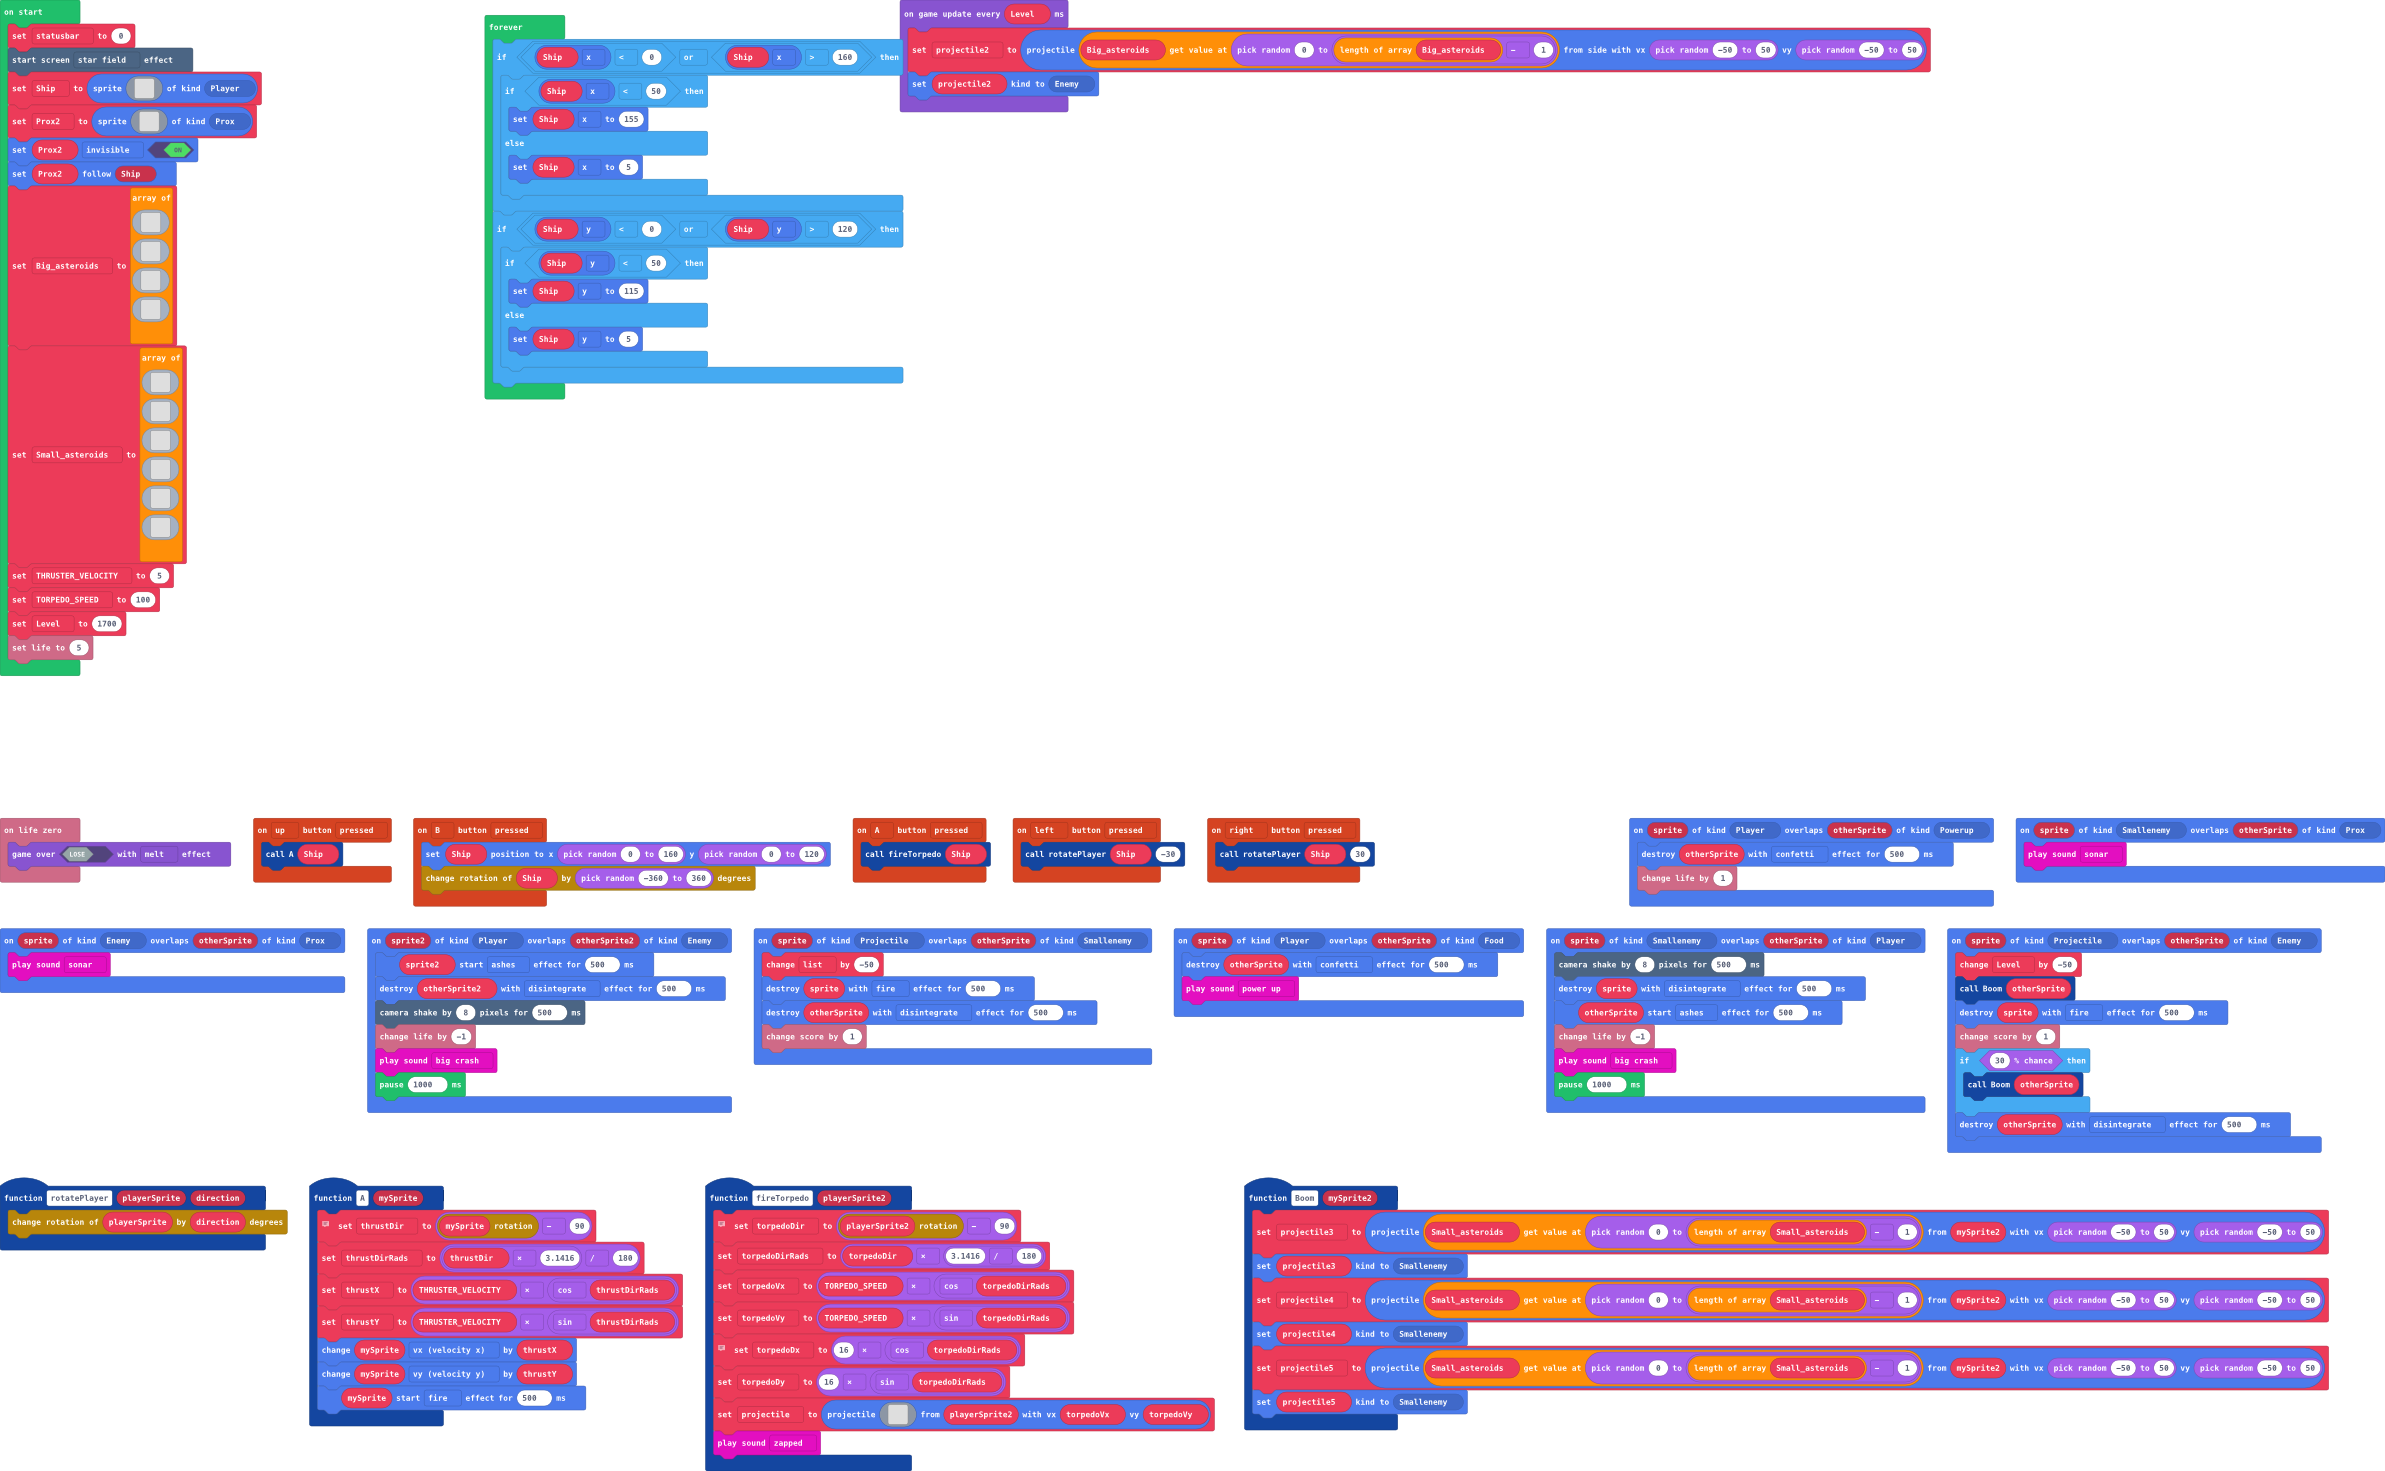
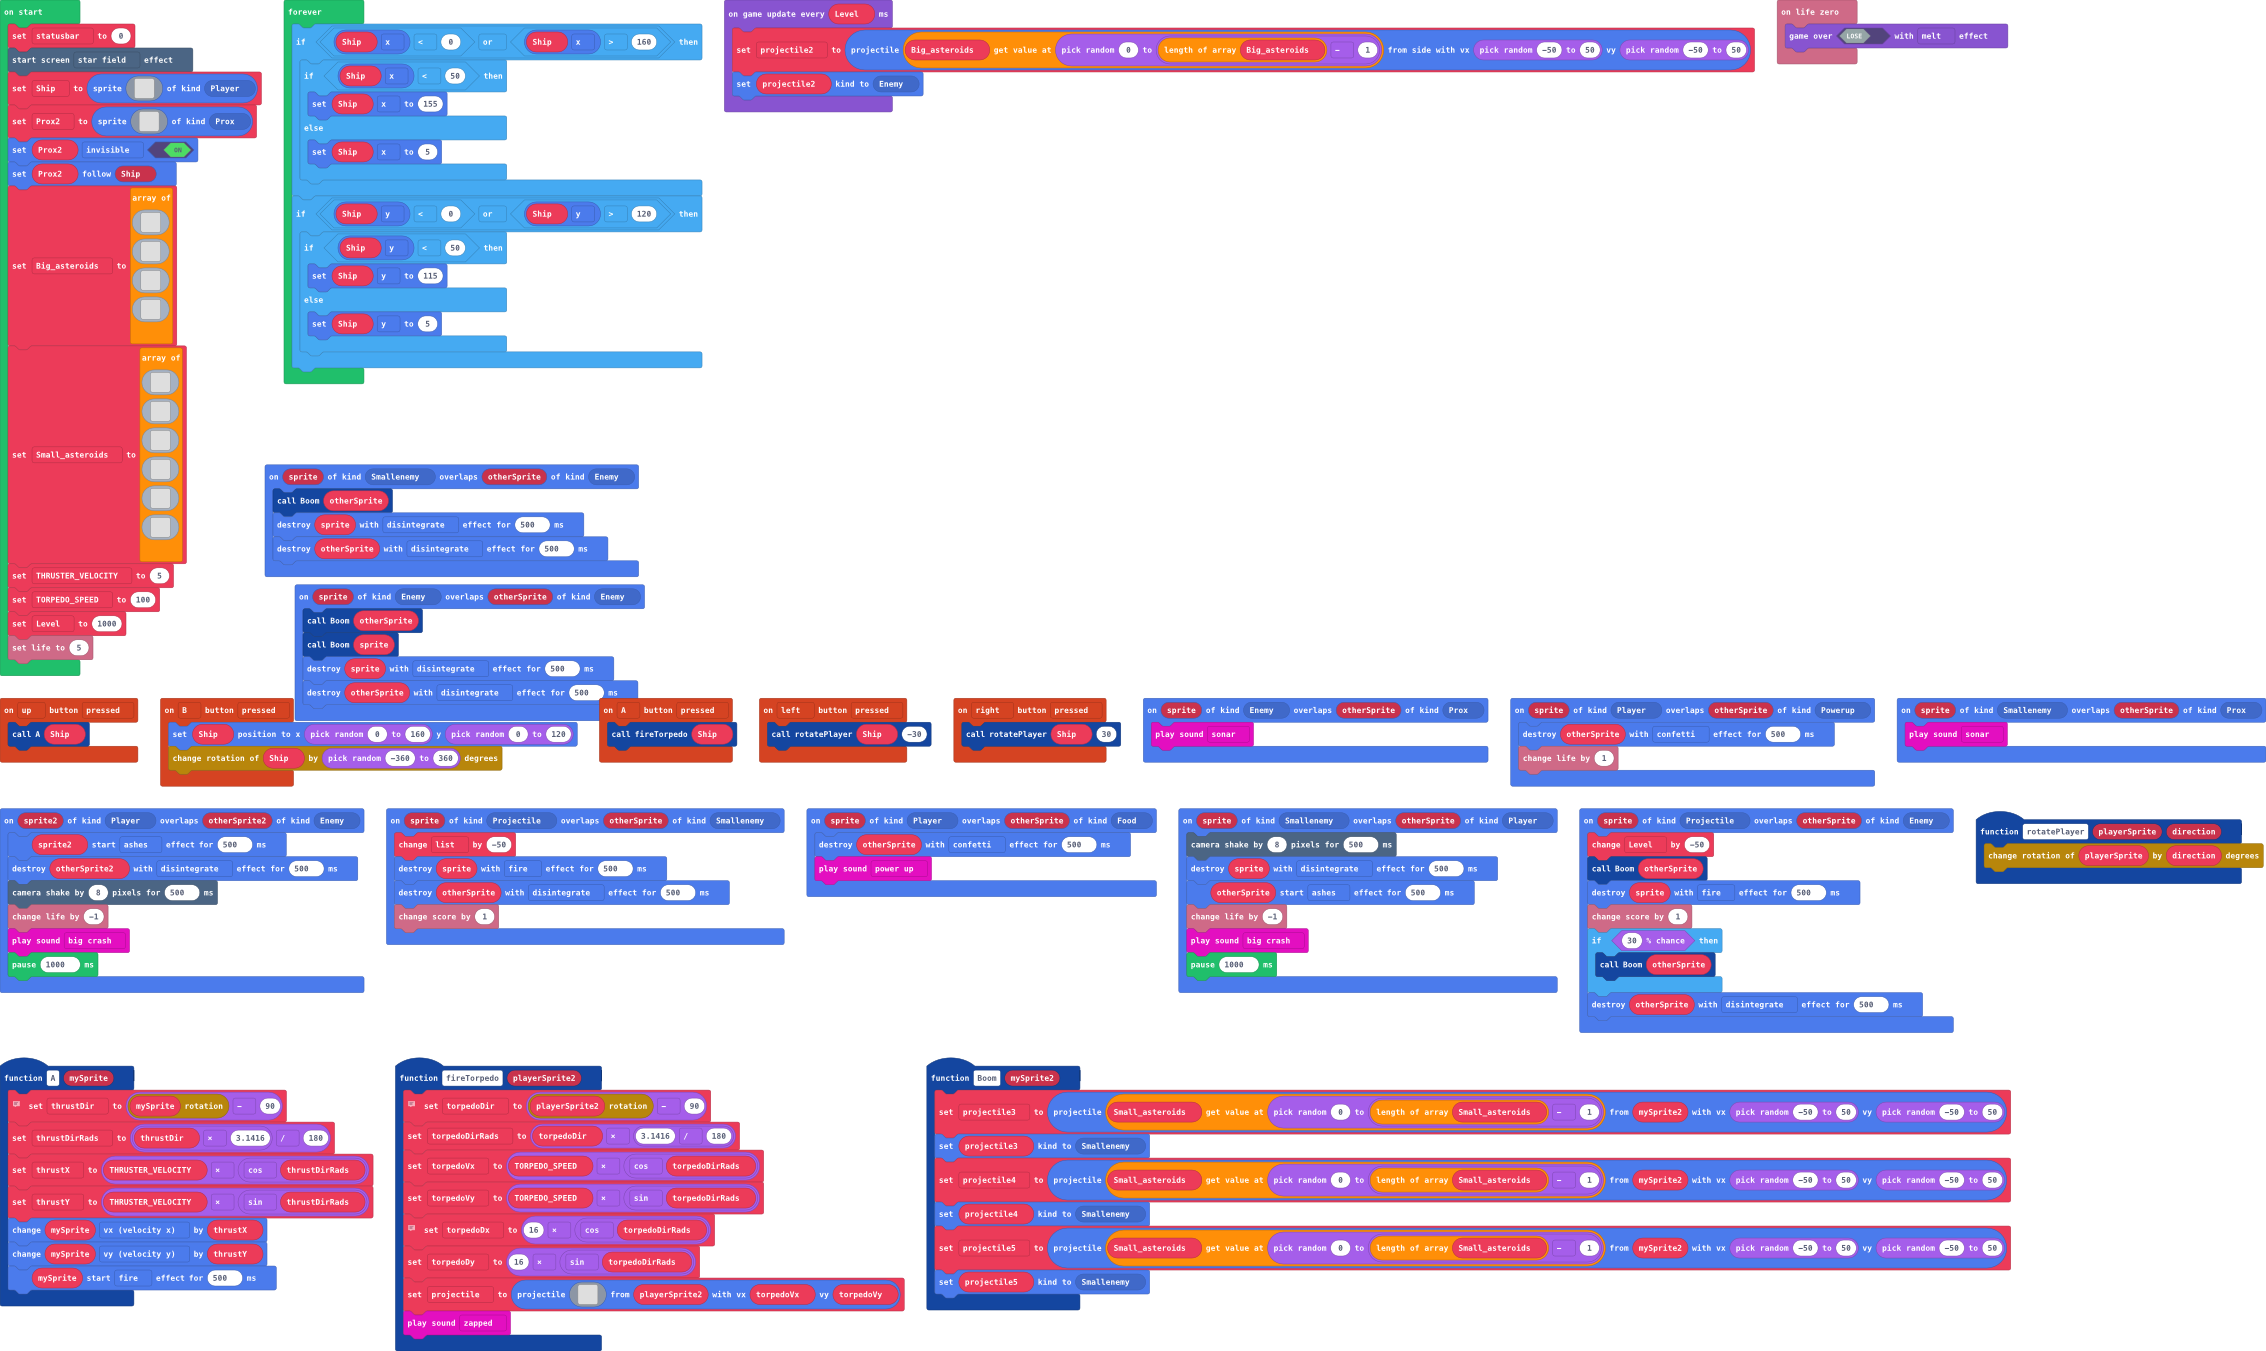
Update pxt.json, main.blocks, main.ts, images.g.jres, images.g.ts

diff --git a/images.g.ts b/images.g.ts
@@ -24,79 +24,79 @@ c c c c c c e e 2 2 2 2 4 2 e e
 `;
             case "image2":
             case "A":return img`
-. . . . . . . . . c c 8 . . . . 
-. . . . . . 8 c c c f 8 c c . . 
-. . . c c 8 8 f c a f f f c c . 
-. . c c c f f f c a a f f c c c 
-8 c c c f f f f c c a a c 8 c c 
-c c c b f f f 8 a c c a a a c c 
-c a a b b 8 a b c c c c c c c c 
-a f c a a b b a c c c c c f f c 
-a 8 f c a a c c a c a c f f f c 
-c a 8 a a c c c c a a f f f 8 a 
-. a c a a c f f a a b 8 f f c a 
-. . c c b a f f f a b b c c 6 c 
-. . . c b b a f f 6 6 a b 6 c . 
-. . . c c b b b 6 6 a c c c c . 
-. . . . c c a b b c c c . . . . 
-. . . . . c c c c c c . . . . . 
+. . . . . . . . . 1 1 1 . . . . 
+. . . . . . 1 1 1 1 . . 1 1 . . 
+. . . 1 1 1 1 . . . . . . 1 1 . 
+. . 1 1 . . . . . . . . . . 1 1 
+1 1 1 . . . . . . . . . . . . 1 
+1 . . . . . . . . . . . . . . 1 
+1 . . . . . . . . . . . . . . 1 
+1 . . . . . . . . . . . . . . 1 
+1 . . . . . . . . . . . . . . 1 
+1 1 . . . . . . . . . . . . . 1 
+. 1 1 . . . . . . . . . . . . 1 
+. . 1 1 . . . . . . . . . . 1 1 
+. . . 1 . . . . . . . . . . 1 . 
+. . . 1 1 . . . . . . 1 1 1 1 . 
+. . . . 1 1 . . . . 1 1 . . . . 
+. . . . . 1 1 1 1 1 1 . . . . . 
 `;
             case "image3":
             case "B":return img`
 . . . . . . . . . . . . . . . . 
-. . . . . . . . . . c c c c . . 
-. c c c c c . c c c c c f c c . 
-c c a c c c c c 8 f f c f f c c 
-c a f a a c c a f f c a a f f c 
-c a 8 f a a c a c c c a a a a c 
-c b c f a a a a a c c c c c c c 
-c b b a a c f 8 a c c c 8 c c c 
-. c b b a b c f a a a 8 8 c c . 
-. . . . a a b b b a a 8 a c . . 
-. . . . c b c a a c c b . . . . 
-. . . . b b c c a b b a . . . . 
-. . . . b b a b a 6 a . . . . . 
-. . . . c b b b 6 6 c . . . . . 
-. . . . . c a 6 6 b c . . . . . 
-. . . . . . . c c c . . . . . . 
+. . . . . . . . . . 1 1 1 1 . . 
+. 1 1 1 1 1 . 1 1 1 1 . . 1 1 . 
+1 1 . . . 1 1 1 . . . . . . 1 1 
+1 . . . . . . . . . . . . . . 1 
+1 . . . . . . . . . . . . . . 1 
+1 . . . . . . . . . . . . . . 1 
+1 1 . . . . . . . . . . . . 1 1 
+. 1 1 1 1 . . . . . . . . 1 1 . 
+. . . . 1 . . . . . . 1 1 1 . . 
+. . . . 1 . . . . . . 1 . . . . 
+. . . . 1 . . . . . 1 1 . . . . 
+. . . . 1 . . . . . 1 . . . . . 
+. . . . 1 1 . . . . 1 . . . . . 
+. . . . . 1 1 1 . 1 1 . . . . . 
+. . . . . . . 1 1 1 . . . . . . 
 `;
             case "image4":
             case "C":return img`
-. . . . . . . . c c c c . . . . 
-. . . . c c c c c c c c c . . . 
-. . . c f c c a a a a c a c . . 
-. . c c f f f f a a a c a a c . 
-. . c c a f f c a a f f f a a c 
-. . c c a a a a b c f f f a a c 
-. c c c c a c c b a f c a a c c 
-c a f f c c c a b b 6 b b b c c 
-c a f f f f c c c 6 b b b a a c 
-c a a c f f c a 6 6 b b b a a c 
-c c b a a a a b 6 b b a b b a . 
-. c c b b b b b b b a c c b a . 
-. . c c c b c c c b a a b c . . 
-. . . . c b a c c b b b c . . . 
-. . . . c b b a a 6 b c . . . . 
-. . . . . . b 6 6 c c . . . . . 
+. . . . . . . . 1 1 1 1 . . . . 
+. . . . 1 1 1 1 1 . . 1 1 . . . 
+. . . 1 1 . . . . . . . 1 1 . . 
+. . 1 1 . . . . . . . . . 1 1 . 
+. . 1 . . . . . . . . . . . 1 1 
+. . 1 . . . . . . . . . . . . 1 
+. 1 1 . . . . . . . . . . . . 1 
+1 1 . . . . . . . . . . . . . 1 
+1 . . . . . . . . . . . . . . 1 
+1 . . . . . . . . . . . . . 1 1 
+1 1 . . . . . . . . . . . . 1 . 
+. 1 1 . . . . . . . . . . 1 1 . 
+. . 1 1 1 . . . . . . . 1 1 . . 
+. . . . 1 . . . . . . 1 1 . . . 
+. . . . 1 1 1 . . . 1 1 . . . . 
+. . . . . . 1 1 1 1 1 . . . . . 
 `;
             case "image5":
             case "D":return img`
-. . . . . . . c c c a c . . . . 
-. . c c b b b a c a a a c . . . 
-. c c a b a c b a a a b c c . . 
-. c a b c f f f b a b b b a . . 
-. c a c f f f 8 a b b b b b a . 
-. c a 8 f f 8 c a b b b b b a . 
-c c c a c c c c a b c f a b c c 
-c c a a a c c c a c f f c b b a 
-c c a b 6 a c c a f f c c b b a 
-c a b c 8 6 c c a a a b b c b c 
-c a c f f a c c a f a c c c b . 
-c a 8 f c c b a f f c b c c c . 
-. c b c c c c b f c a b b a c . 
-. . a b b b b b b b b b b b c . 
-. . . c c c c b b b b b c c . . 
-. . . . . . . . c b b c . . . . 
+. . . . . . . 1 1 1 1 1 . . . . 
+. . 1 1 1 1 1 1 . . . 1 1 . . . 
+. 1 1 . . . . . . . . . 1 1 . . 
+. 1 . . . . . . . . . . . 1 . . 
+. 1 . . . . . . . . . . . 1 1 . 
+. 1 . . . . . . . . . . . . 1 . 
+1 1 . . . . . . . . . . . . 1 1 
+1 . . . . . . . . . . . . . . 1 
+1 . . . . . . . . . . . . . . 1 
+1 . . . . . . . . . . . . . 1 1 
+1 . . . . . . . . . . . . . 1 . 
+1 1 . . . . . . . . . . . . 1 . 
+. 1 1 . . . . . . . . . . . 1 . 
+. . 1 1 . . . . . . . . . 1 1 . 
+. . . 1 1 1 1 1 1 . . 1 1 1 . . 
+. . . . . . . . 1 1 1 1 . . . . 
 `;
             case "image6":
             case "E":return img`
@@ -105,15 +105,15 @@ c a 8 f c c b a f f c b c c c .
 . . . . . . . . . . . . . . . . 
 . . . . . . . . . . . . . . . . 
 . . . . . . . . . . . . . . . . 
-. . . . . . . c c c . . . . . . 
-. . . . . . a b a a . . . . . . 
-. . . . . c b a f c a c . . . . 
-. . . . c b b b f f a c c . . . 
-. . . . b b f a b b a a c . . . 
-. . . . c b f f b a f c a . . . 
-. . . . . c a a c b b a . . . . 
-. . . . . . c c c c . . . . . . 
-. . . . . . . c . . . . . . . . 
+. . . . . . . 1 1 1 . . . . . . 
+. . . . . . 1 1 . 1 . . . . . . 
+. . . . . 1 1 . . 1 1 1 . . . . 
+. . . . 1 1 . . . . . 1 1 . . . 
+. . . . 1 . . . . . . . 1 . . . 
+. . . . 1 1 . . . . . 1 1 . . . 
+. . . . . 1 1 . . 1 1 1 . . . . 
+. . . . . . 1 1 1 1 . . . . . . 
+. . . . . . . 1 . . . . . . . . 
 . . . . . . . . . . . . . . . . 
 . . . . . . . . . . . . . . . . 
 `;
@@ -125,14 +125,14 @@ c a 8 f c c b a f f c b c c c .
 . . . . . . . . . . . . . . . . 
 . . . . . . . . . . . . . . . . 
 . . . . . . . . . . . . . . . . 
-. . . . . . . . c c . . . . . . 
-. . . . . c a a a a . . . . . . 
-. . . . . a a f f b a . . . . . 
-. . . . c a b f f c b . . . . . 
-. . . . c b b b a f c b . . . . 
-. . . . c b a c a b b b . . . . 
-. . . . . b b f f a a c . . . . 
-. . . . . . a a b b c . . . . . 
+. . . . . . . . 1 1 . . . . . . 
+. . . . . 1 1 1 1 1 . . . . . . 
+. . . . . 1 . . . 1 1 . . . . . 
+. . . . 1 1 . . . . 1 . . . . . 
+. . . . 1 . . . . . 1 1 . . . . 
+. . . . 1 1 . . . . . 1 . . . . 
+. . . . . 1 1 . . . 1 1 . . . . 
+. . . . . . 1 1 1 1 1 . . . . . 
 . . . . . . . . . . . . . . . . 
 . . . . . . . . . . . . . . . . 
 `;
@@ -144,14 +144,14 @@ c a 8 f c c b a f f c b c c c .
 . . . . . . . . . . . . . . . . 
 . . . . . . . . . . . . . . . . 
 . . . . . . . . . . . . . . . . 
-. . . . . . . c c . . . . . . . 
-. . . . c a a a a . . . . . . . 
-. . . . a a f f b a . . . . . . 
-. . . c a b f f c b . . . . . . 
-. . . c b b b a f c b . . . . . 
-. . . c b a c a b b b . . . . . 
-. . . . b b f f a a c . . . . . 
-. . . . . a a b b c . . . . . . 
+. . . . . . . 1 1 . . . . . . . 
+. . . . 1 1 1 1 1 . . . . . . . 
+. . . . 1 . . . 1 1 . . . . . . 
+. . . 1 1 . . . . 1 . . . . . . 
+. . . 1 . . . . . 1 1 . . . . . 
+. . . 1 1 . . . . . 1 . . . . . 
+. . . . 1 1 . . . 1 1 . . . . . 
+. . . . . 1 1 1 1 1 . . . . . . 
 . . . . . . . . . . . . . . . . 
 . . . . . . . . . . . . . . . . 
 `;
@@ -163,14 +163,14 @@ c a 8 f c c b a f f c b c c c .
 . . . . . . . . . . . . . . . . 
 . . . . . . . . . . . . . . . . 
 . . . . . . . . . . . . . . . . 
-. . . . . . . c . . . . . . . . 
-. . . . c a a a c . . . . . . . 
-. . . c c f a b b c . . . . . . 
-. . . b f f b f a a . . . . . . 
-. . . b b a b f f a . . . . . . 
-. . . c b f b b a c . . . . . . 
-. . . . b a f c c . . . . . . . 
-. . . . . b b c . . . . . . . . 
+. . . . . . . 1 . . . . . . . . 
+. . . . 1 1 1 1 1 . . . . . . . 
+. . . 1 1 . . . 1 1 . . . . . . 
+. . . 1 . . . . . 1 . . . . . . 
+. . . 1 . . . . . 1 . . . . . . 
+. . . 1 1 . . . 1 1 . . . . . . 
+. . . . 1 1 . 1 1 . . . . . . . 
+. . . . . 1 1 1 . . . . . . . . 
 . . . . . . . . . . . . . . . . 
 . . . . . . . . . . . . . . . . 
 `;
@@ -180,13 +180,13 @@ c a 8 f c c b a f f c b c c c .
 . . . . . . . . . . . . . . . . 
 . . . . . . . . . . . . . . . . 
 . . . . . . . . . . . . . . . . 
-. . . . . . c b a c . . . . . . 
-. . . . c c b c f a c . . . . . 
-. . . . a f b b b a c . . . . . 
-. . . . a f f b a f c c . . . . 
-. . . . c b b a f f c . . . . . 
-. . . . . b b a f a . . . . . . 
-. . . . . . c b b . . . . . . . 
+. . . . . . 1 1 1 1 . . . . . . 
+. . . . 1 1 1 . . 1 1 . . . . . 
+. . . . 1 . . . . . 1 . . . . . 
+. . . . 1 . . . . . 1 1 . . . . 
+. . . . 1 1 . . . 1 1 . . . . . 
+. . . . . 1 1 . 1 1 . . . . . . 
+. . . . . . 1 1 1 . . . . . . . 
 . . . . . . . . . . . . . . . . 
 . . . . . . . . . . . . . . . . 
 . . . . . . . . . . . . . . . . 
@@ -198,14 +198,14 @@ c a 8 f c c b a f f c b c c c .
 . . . . . . . . . . . . . . . . 
 . . . . . . . . . . . . . . . . 
 . . . . . . . . . . . . . . . . 
-. . . . . . c c . . . . . . . . 
-. . . . c a f b c . . . . . . . 
-. . . . b f f b c c . . . . . . 
-. . . a a f b a b a c . . . . . 
-. . . c a c b b f f b . . . . . 
-. . . . b f f b f a b . . . . . 
-. . . . a f f b b b a . . . . . 
-. . . . . a b b c c . . . . . . 
+. . . . . . 1 1 . . . . . . . . 
+. . . . 1 1 1 1 1 . . . . . . . 
+. . . . 1 . . . 1 1 . . . . . . 
+. . . 1 1 . . . . 1 1 . . . . . 
+. . . 1 1 . . . . . 1 . . . . . 
+. . . . 1 . . . . . 1 . . . . . 
+. . . . 1 1 . . . 1 1 . . . . . 
+. . . . . 1 1 1 1 1 . . . . . . 
 . . . . . . . . . . . . . . . . 
 . . . . . . . . . . . . . . . . 
 . . . . . . . . . . . . . . . . 

diff --git a/main.ts b/main.ts
@@ -40,6 +40,17 @@ sprites.onOverlap(SpriteKind.Enemy, SpriteKind.Prox, function (sprite, otherSpri
 controller.left.onEvent(ControllerButtonEvent.Pressed, function () {
     rotatePlayer(Ship, -30)
 })
+sprites.onOverlap(SpriteKind.Smallenemy, SpriteKind.Enemy, function (sprite, otherSprite) {
+    Boom(otherSprite)
+    sprites.destroy(sprite, effects.disintegrate, 500)
+    sprites.destroy(otherSprite, effects.disintegrate, 500)
+})
+sprites.onOverlap(SpriteKind.Enemy, SpriteKind.Enemy, function (sprite, otherSprite) {
+    Boom(otherSprite)
+    Boom(sprite)
+    sprites.destroy(sprite, effects.disintegrate, 500)
+    sprites.destroy(otherSprite, effects.disintegrate, 500)
+})
 sprites.onOverlap(SpriteKind.Player, SpriteKind.Enemy, function (sprite2, otherSprite2) {
     sprite2.startEffect(effects.ashes, 500)
     otherSprite2.destroy(effects.disintegrate, 500)
@@ -145,17 +156,17 @@ Ship = sprites.create(img`
     . . . . . . . . . . . . . . . . 
     . . . . . . . . . . . . . . . . 
     . . . . . . . . . . . . . . . . 
-    . . . . . . . 2 2 . . . . . . . 
-    . . . . . . . 2 2 . . . . . . . 
-    . . . . . . 2 . . 2 . . . . . . 
-    . . . . . . 2 . . 2 . . . . . . 
-    . . . . . 2 . . . . 2 . . . . . 
-    . . . . . 2 . . . . 2 . . . . . 
-    . . . . . 2 . . . . 2 . . . . . 
-    . . . . 2 . . . . . . 2 . . . . 
-    . . . . 2 . . . . . . 2 . . . . 
-    . . . 2 2 2 2 2 2 2 2 2 2 . . . 
     . . . . . . . . . . . . . . . . 
+    . . . . . . . . . . . . . . . . 
+    . . . . . . . 1 1 . . . . . . . 
+    . . . . . . . 1 1 . . . . . . . 
+    . . . . . . . 1 1 . . . . . . . 
+    . . . . . . 1 . . 1 . . . . . . 
+    . . . . . . 1 . . 1 . . . . . . 
+    . . . . . 1 . . . . 1 . . . . . 
+    . . . . . 1 . . . . 1 . . . . . 
+    . . . . 1 . . . . . . 1 . . . . 
+    . . . . 1 1 1 1 1 1 1 1 . . . . 
     . . . . . . . . . . . . . . . . 
     . . . . . . . . . . . . . . . . 
     `, SpriteKind.Player)
@@ -299,7 +310,7 @@ assets.image`J`
 ]
 THRUSTER_VELOCITY = 5
 TORPEDO_SPEED = 100
-let Level = 1700
+let Level = 1000
 info.setLife(5)
 game.onUpdateInterval(Level, function () {
     projectile2 = sprites.createProjectileFromSide(Big_asteroids[randint(0, Big_asteroids.length - 1)], randint(-50, 50), randint(-50, 50))
